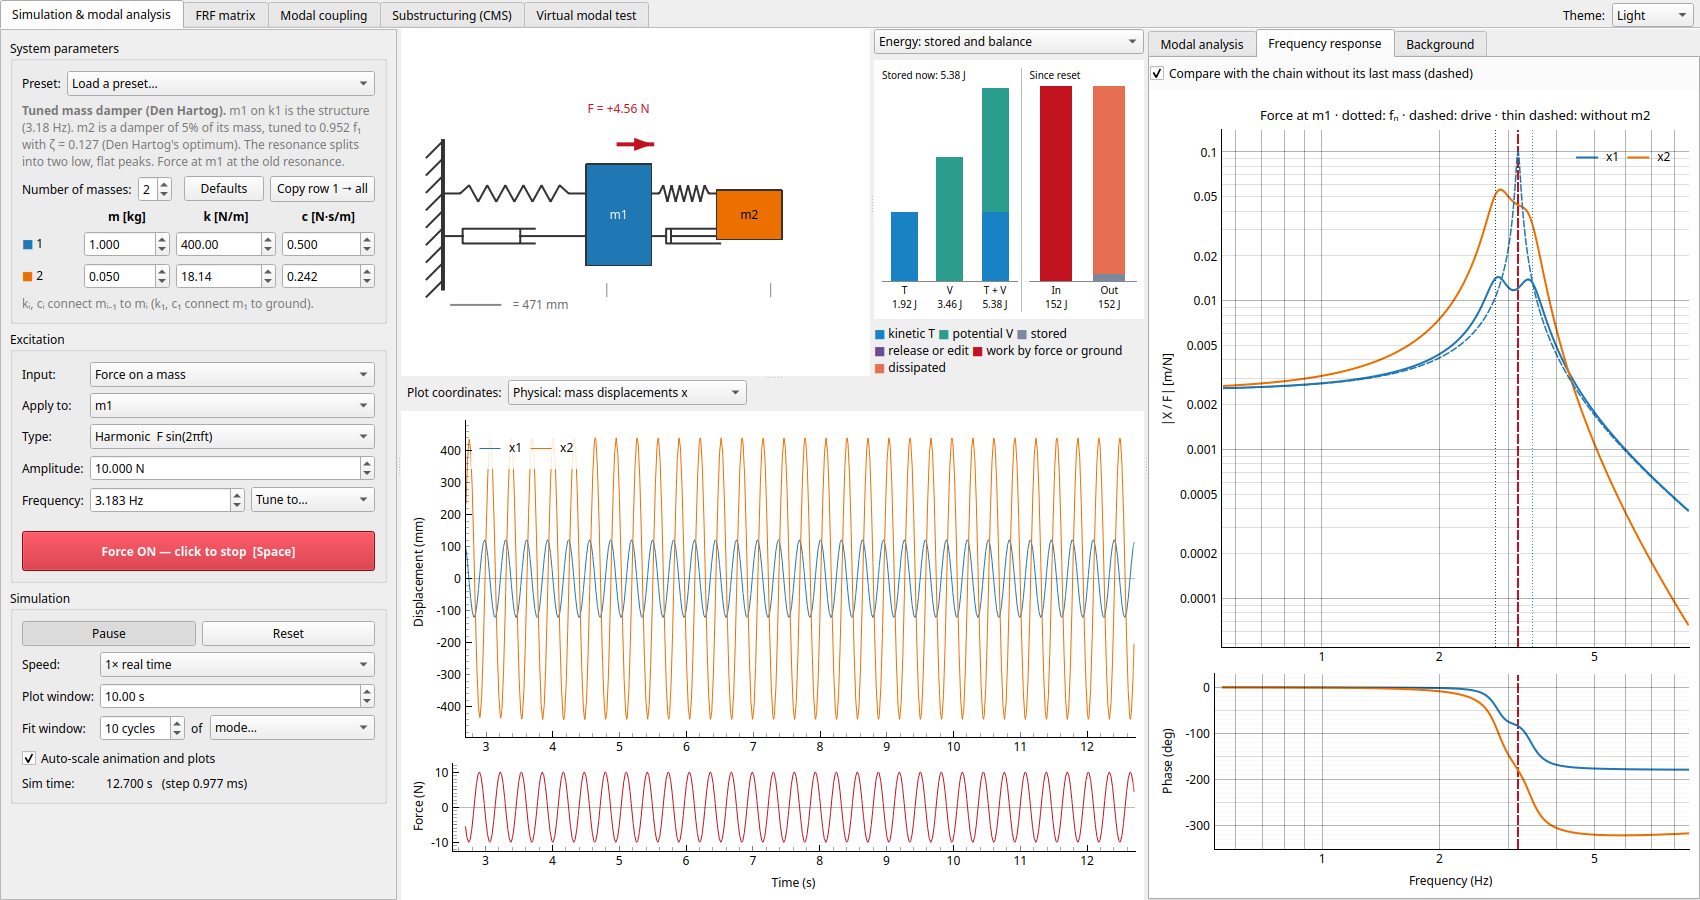
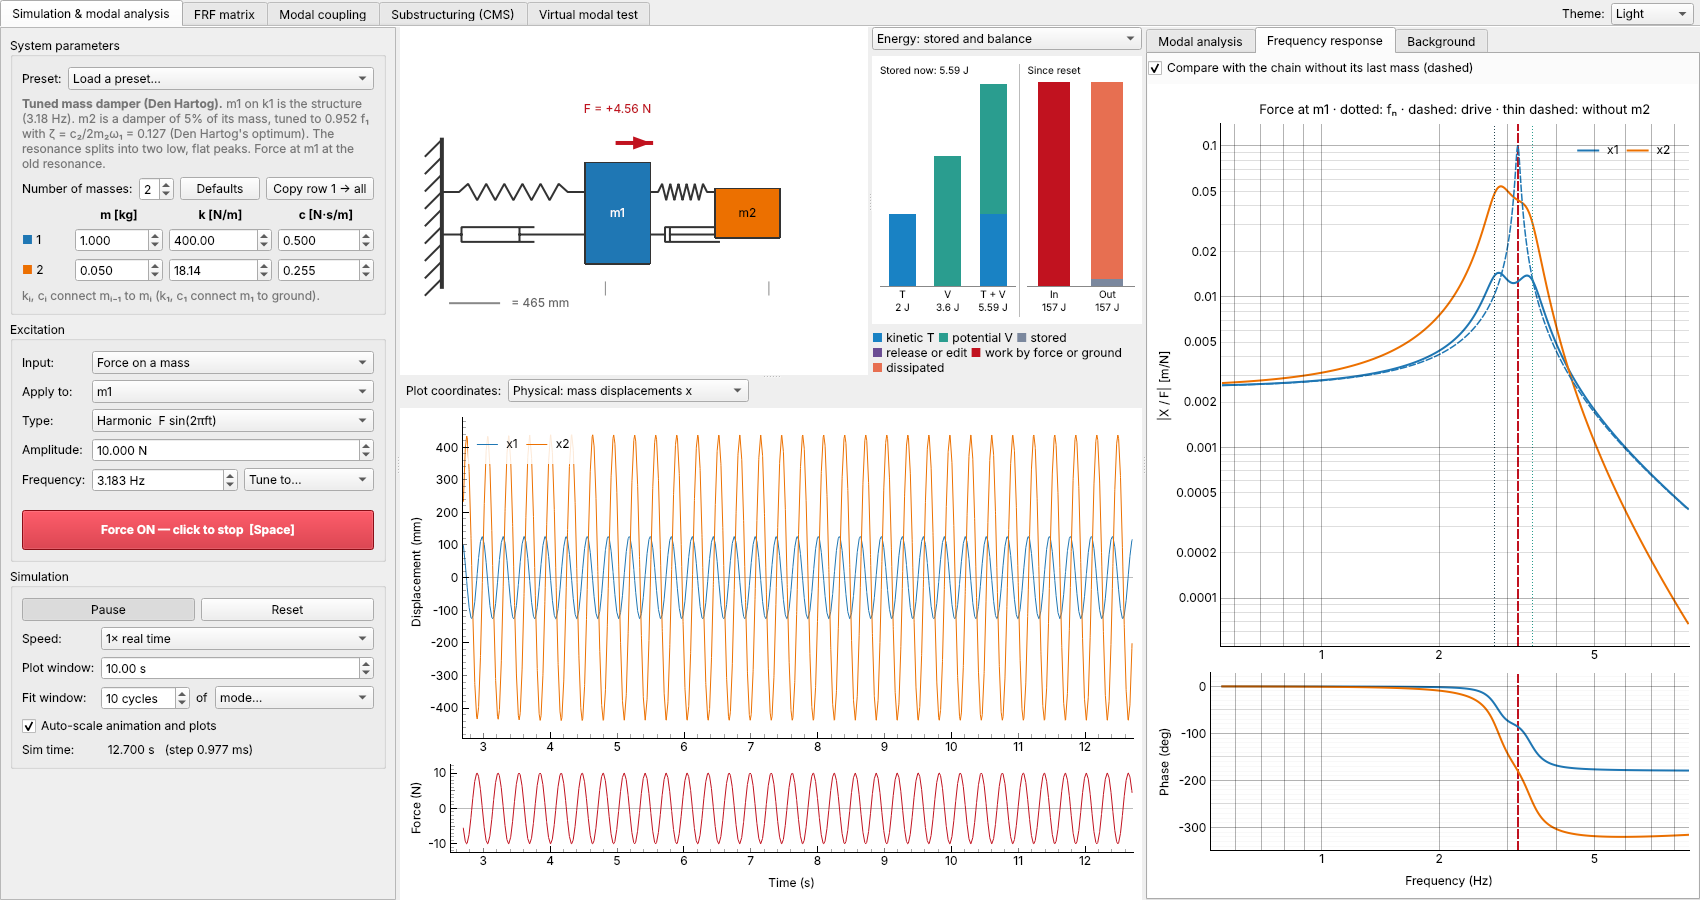
Correct the tutorial text on tuned mass dampers, log sweeps and veering
- Den Hartog's damping ratio is now referenced to the primary's frequency, as in
  his derivation, so the two peaks come out equal (6.407 and 6.408 on an undamped
  primary, was 6.41 and 6.45). The preset summary, README and Background say which
  frequency it is measured against.
- The Background no longer says the 6.4 peak holds whatever the primary's damping;
  the fixed points are exact only for an undamped primary.
- The log-sweep tooltip gave the wrong reason (low modes are not closer together).
- The veering width depends on the mass ratio, not on how close the frequencies are.
- New tests/test_tutorial_numbers.py recomputes the numbers the text quotes.
- Refresh the tuned mass damper screenshot.

Claude-Session: https://claude.ai/code/session_01Xeqp8Uxtmip8sorBwcrTMa

diff --git a/tests/test_tutorial_numbers.py b/tests/test_tutorial_numbers.py
@@ -1,0 +1,128 @@
+"""The numbers quoted in the tutorial text (Background, Theory tabs, Try it lists, README).
+
+Each test recomputes what a page tells the student they will see, so a change to a
+default, a preset or a solver cannot silently make the text wrong. If one fails, fix
+the text (or the change), and quote the new value.
+"""
+
+import numpy as np
+import pytest
+from scipy.signal import find_peaks
+
+from vib_tutorial.core import (
+    ChainSystem,
+    Simulator,
+    compare_coupled,
+    compare_modes,
+    component_mode_synthesis,
+    coupled_model,
+    frf,
+    modal_analysis,
+    modal_energies,
+)
+from vib_tutorial.core.presets import presets
+
+
+def peaks(system: ChainSystem, dof: int, scale: float, lo: float = 0.5, hi: float = 8.0) -> list[float]:
+    f = np.linspace(lo, hi, 100001)
+    h = np.abs(frf(system, f, dof)[:, dof]) * scale
+    return [float(h[i]) for i in find_peaks(h)[0]]
+
+
+def preset(name: str):
+    return next(p for p in presets() if name in p.name)
+
+
+def with_c1(c1: float) -> ChainSystem:
+    s = ChainSystem.uniform(4)
+    s.damping[0] = c1
+    return s
+
+
+@pytest.mark.parametrize(("c1", "coupling", "modal", "exact"), [
+    (5, 0.36, 0.0977, 0.0979),
+    (15, 0.71, 0.168, 0.180),
+    (50, 0.90, 0.45, 0.98),
+])
+def test_background_coupling_table(c1, coupling, modal, exact):
+    r = modal_analysis(with_c1(c1))
+    assert r.coupling == pytest.approx(coupling, abs=0.005)
+    pairs = [(m.zeta_modal, m.damped.zeta) for m in r.modes if m.damped]
+    assert any(z_m == pytest.approx(modal, rel=0.01) and z_e == pytest.approx(exact, rel=0.01) for z_m, z_e in pairs)
+
+
+def test_background_try_it_overdamped_at_c1_200():
+    roots = modal_analysis(with_c1(200)).overdamped_roots
+    assert len(roots) == 2 and roots[0] > -3 and roots[1] < -100  # one slow, one very fast
+
+
+def test_background_try_it_energy_moves_to_mode_1():
+    for c1, mode1_share in ((15, 0.85), (2, None)):
+        s = with_c1(c1)
+        r = modal_analysis(s)
+        sim = Simulator(s)
+        sim.set_state(0.02 * r.modes[2].shape, np.zeros(4))
+        for _ in range(20):
+            sim.advance(0.05)  # 1 s
+        e = modal_energies(s, r, sim.displacement, sim.velocity)
+        if mode1_share is None:
+            assert e[2] / e.sum() == pytest.approx(1.0, abs=1e-6)  # mode 3 keeps it all
+        else:
+            assert e[0] / e.sum() > mode1_share  # "within a second most of what is left is in mode 1"
+
+
+def test_presets_absorber_and_tuned_mass_damper():
+    absorber = preset("absorber (undamped)").system
+    f = modal_analysis(absorber).modes
+    assert (f[1].fn_hz - f[0].fn_hz) / 3.183 == pytest.approx(0.1**0.5, abs=0.01)  # "√0.1 ≈ 32% apart"
+    tmd = preset("Den Hartog").system
+    assert max(peaks(tmd.resized(1), 0, 400.0)) == pytest.approx(40.0, rel=0.01)  # "40 times"
+    assert max(peaks(tmd, 0, 400.0)) < 6.0  # "under 6"
+    undamped = ChainSystem(tmd.masses, tmd.stiffness, [0.0, tmd.damping[1]])
+    assert peaks(undamped, 0, 400.0) == pytest.approx([6.4, 6.4], rel=0.005)  # "about 6.4", equal
+    for c2, count in ((0.0, 2), (5.0, 1)):  # "Set c2 to 0: two sharp peaks. Set it to 5: one"
+        assert len(peaks(ChainSystem(tmd.masses, tmd.stiffness, [tmd.damping[0], c2]), 0, 400.0)) == count
+
+
+def coupling_errors(system, split, mode_a=0, mode_b=0, a_mass="tip"):
+    m = coupled_model(system, split, mode_a, mode_b, a_mass)
+    return m, [(c.error, c.mac) for c in compare_coupled(m, modal_analysis(system))]
+
+
+def test_modal_coupling_try_it():
+    _, errs = coupling_errors(preset("absorber (undamped)").system, 1)
+    assert all(abs(e) < 1e-9 for e, _ in errs)
+    tuned = ChainSystem([1, 1, 0.1, 0.1], [400, 400, 40, 40], [2, 2, 0.2, 0.2])
+    m, errs = coupling_errors(tuned, 2)
+    assert m.mass_ratio == pytest.approx(0.14, abs=0.005)
+    assert [e for e, _ in errs] == pytest.approx([0.002, 0.0033], abs=0.0005)  # "about 0.2%"
+    _, errs = coupling_errors(tuned, 2, a_mass="effective")
+    assert max(abs(e) for e, _ in errs) == pytest.approx(0.03, abs=0.002)  # "about 3%", either sign
+    _, errs = coupling_errors(ChainSystem.uniform(8), 6, mode_a=1)
+    assert errs[0][0] == pytest.approx(-0.14, abs=0.005)  # "14% too low"
+
+
+def cms(interfaces, kept, method="craig-bampton"):
+    s = ChainSystem.uniform(8)
+    return [(c.error, c.mac) for c in compare_modes(component_mode_synthesis(s, interfaces, kept, method),
+                                                   modal_analysis(s)) if c.error is not None]
+
+
+@pytest.mark.parametrize(("interfaces", "kept", "method", "mode", "error", "tol"), [
+    ([], [0], "craig-bampton", 1, 0.073, 0.001),  # Guyan, +7.3%
+    ([], [1], "craig-bampton", 1, 0.0033, 0.0001),
+    ([], [1], "craig-bampton", 2, 0.074, 0.001),
+    ([], [2], "craig-bampton", 3, 0.044, 0.001),
+    ([], [1], "rubin", 2, 0.16, 0.005),
+    ([3], [1, 1], "craig-bampton", 4, 0.07, 0.002),
+    ([3], [0, 0], "craig-bampton", 2, 0.11, 0.005),
+    ([3], [2, 2], "craig-bampton", 6, 0.027, 0.001),
+    ([6], [1, 0], "craig-bampton", 3, 0.50, 0.01),
+    ([2, 5], [1, 1, 1], "craig-bampton", 4, 0.023, 0.001),
+    ([2, 5], [0, 0, 0], "craig-bampton", 3, 0.16, 0.005),
+    ([3], [1, 1], "rubin", 4, 0.10, 0.005),
+    ([3], [1, 1], "macneal", 2, 0.22, 0.005),
+    ([3], [9, 9], "macneal", 6, 0.66, 0.005),
+])
+def test_substructuring_try_it(interfaces, kept, method, mode, error, tol):
+    assert cms(interfaces, kept, method)[mode - 1][0] == pytest.approx(error, abs=tol)

diff --git a/src/vib_tutorial/gui/background.py b/src/vib_tutorial/gui/background.py
@@ -201,15 +201,20 @@ further apart the heavier the absorber (mass ratio μ = m<sub>a</sub>/m<sub>1</s
 works at one frequency: a machine whose speed drifts, or starts up through the peaks,
 needs damping.</p>
 <p><b>Tuned mass damper.</b> Add a damper c<sub>a</sub> and the peaks come down, but too
-much locks the absorber to m<sub>1</sub> and the old resonance comes back. Every curve of
-|X<sub>1</sub>/F|, whatever c<sub>a</sub>, passes through the same two <i>fixed points</i>.
-Den Hartog's optimum tunes the absorber so the fixed points are equally high, then picks
-the damping that puts the peaks on them:</p>
+much locks the absorber to m<sub>1</sub> and the old resonance comes back. If the primary
+itself is undamped, every curve of |X<sub>1</sub>/F|, whatever c<sub>a</sub>, passes through
+the same two <i>fixed points</i>. Den Hartog's optimum tunes the absorber so the fixed points
+are equally high, then picks the damping that puts the peaks on them (strictly, Brock's
+average of the two values that each put one peak on its fixed point):</p>
 <p>&nbsp;&nbsp;f<sub>a</sub>/f<sub>1</sub> = 1/(1 + μ), &nbsp;&nbsp;
 ζ<sub>a</sub> = √(3μ / 8(1 + μ)³), &nbsp;&nbsp; peak |X<sub>1</sub>|k<sub>1</sub>/F =
 √(1 + 2/μ)</p>
-<p>(ζ<sub>a</sub> = c<sub>a</sub> / 2m<sub>a</sub>ω<sub>a</sub>.) With μ = 5% the peak is
-about 6.4 times the static deflection, whatever the primary's own damping was.</p>
+<p>Here ζ<sub>a</sub> = c<sub>a</sub> / 2m<sub>a</sub>ω<sub>1</sub>, measured against the
+<i>primary's</i> frequency ω<sub>1</sub> = √(k<sub>1</sub>/m<sub>1</sub>), as in Den Hartog's
+derivation. (Some textbooks use the absorber's own ω<sub>a</sub> instead; the two differ by
+the factor 1 + μ, so check which one a formula assumes.) With μ = 5% and an undamped primary
+both peaks are about 6.4 times the static deflection. Damping in the primary lowers them
+further, and the fixed points are then only approximate.</p>
 <p><b>On a chain</b>, such as a building, a damper on the roof is tuned to one mode. Near
 that mode the structure behaves like a single mass on a spring whose <i>modal mass</i> at
 the roof is 1/φ<sub>roof</sub>² (φ mass-normalized), so μ and the tuning use that mass
@@ -249,8 +254,9 @@ forces</i>: spring k2 carries the applied force. Change the drive frequency a li
 m1 starts moving again.</li>
 <li>Load <i>Tuned mass damper (Den Hartog)</i>. On the <i>Frequency response</i> tab the
 dashed primary alone peaks at 40 times its static deflection, the damped system at under
-6. Set c2 to 0: two sharp peaks. Set it to 5: the damper locks the absorber to m1 and one
-tall peak comes back. Every curve passes through the same two fixed points.</li>
+6 (its primary is lightly damped, so lower than the 6.4 of an undamped one). Set c2 to 0:
+two sharp peaks. Set it to 5: the damper locks the absorber to m1 and one tall peak comes
+back. Every curve passes close to the same two fixed points.</li>
 </ol>
 """
 

diff --git a/src/vib_tutorial/core/presets.py b/src/vib_tutorial/core/presets.py
@@ -27,6 +27,8 @@ def den_hartog(mu: float) -> tuple[float, float]:
 
     Returns (frequency ratio f_a / f_primary, damping ratio zeta_a), which make the
     two fixed points of the primary's receptance equally high and put the peaks on them.
+    As in Den Hartog's own derivation, zeta_a = c_a / (2 m_a omega_primary): it is
+    referenced to the primary's natural frequency, not the absorber's.
     """
     return 1.0 / (1.0 + mu), math.sqrt(3.0 * mu / (8.0 * (1.0 + mu) ** 3))
 
@@ -55,7 +57,8 @@ def tuned_mass_damper(primary: ChainSystem, mu: float, mode: int = 0) -> ChainSy
     m_eff = modal_mass(primary, mode, primary.n - 1)
     ratio, zeta = den_hartog(mu)
     fn = modal_analysis(primary).modes[mode].fn_hz
-    return with_absorber(primary, mu * m_eff, ratio * fn, zeta)
+    # with_absorber takes the damping ratio on the absorber's own frequency ratio * fn.
+    return with_absorber(primary, mu * m_eff, ratio * fn, zeta / ratio)
 
 
 @dataclass(frozen=True)
@@ -106,7 +109,7 @@ def presets() -> list[Preset]:
         Preset(
             "Tuned mass damper (Den Hartog)",
             f"m1 on k1 is the structure ({f_tmd:.3g} Hz). m2 is a damper of {tmd_mu:.0%} of its "
-            f"mass, tuned to {tmd_ratio:.3f} f₁ with ζ = {tmd_zeta:.3f} (Den Hartog's optimum). "
+            f"mass, tuned to {tmd_ratio:.3f} f₁ with ζ = c₂/2m₂ω₁ = {tmd_zeta:.3f} (Den Hartog's optimum). "
             "The resonance splits into two low, flat peaks. Force at m1 at the old resonance.",
             tmd,
             ForceSettings(target=0, freq_hz=f_tmd),
@@ -116,7 +119,7 @@ def presets() -> list[Preset]:
             "TMD on a 4-storey building",
             f"The default chain as a building on shaking ground, with a damper on the roof (m5): "
             f"{b_mu:.0%} of mode 1's modal mass there ({b_meff:.3g} kg), tuned to "
-            f"{b_ratio:.3f} × {b_fn:.3g} Hz with ζ = {b_zeta:.3f}. The ground shakes at mode 1.",
+            f"{b_ratio:.3f} × {b_fn:.3g} Hz with ζ = {b_zeta:.3f} (relative to {b_fn:.3g} Hz). The ground shakes at mode 1.",
             building_tmd,
             ForceSettings(target=3, freq_hz=b_fn, base=True, base_amplitude=0.005),
             absorber=True,

diff --git a/tests/test_presets.py b/tests/test_presets.py
@@ -33,11 +33,11 @@ def test_den_hartog_equal_peaks_at_the_fixed_points():
     assert s.masses[1] == pytest.approx(0.05)
     f = np.linspace(2.0, 4.5, 20001)
     x1 = np.abs(frf(s, f, 0)[:, 0]) * 400.0  # dynamic amplification
-    # Den Hartog's peak sqrt(1 + 2/mu) (his damping puts the peaks near, not exactly on, the fixed points).
-    assert x1.max() == pytest.approx(math.sqrt(1 + 2 / mu), rel=0.03)
+    # Den Hartog's peak sqrt(1 + 2/mu); with his damping (on the primary's frequency) the peaks are equal.
+    assert x1.max() == pytest.approx(math.sqrt(1 + 2 / mu), rel=0.002)
     fn = 400.0**0.5 / (2 * math.pi)
     lo, hi = x1[f < fn].max(), x1[f > fn].max()
-    assert lo == pytest.approx(hi, rel=0.05)
+    assert lo == pytest.approx(hi, rel=0.002)
 
 
 def test_modal_mass_at_the_tip_of_a_uniform_chain():

diff --git a/src/vib_tutorial/gui/panels.py b/src/vib_tutorial/gui/panels.py
@@ -196,8 +196,10 @@ CHIRP_TIP = (
     "<i>Frequency response</i> tab follows the frequency.</p>"
     "<p>Sweep too fast and a lightly damped mode has no time to build up: its peak comes "
     "late and low, and it rings on after the sweep has moved on.</p>"
-    "<p><b>Log sweep:</b> equal time per octave rather than per hertz, so the low modes, "
-    "which are closer together, get as long as the high ones.</p>"
+    "<p><b>Log sweep:</b> equal time per octave rather than per hertz. A mode's bandwidth "
+    "(2ζf<sub>n</sub>) and its cycles per second both grow with frequency, so a linear sweep "
+    "rushes through the low modes; a log sweep gives each mode a similar number of cycles "
+    "across its peak.</p>"
 )
 
 

diff --git a/src/vib_tutorial/gui/coupling_notes.py b/src/vib_tutorial/gui/coupling_notes.py
@@ -214,8 +214,9 @@ already splits them by 10%.</li>
 </ul>
 <p>In between, the <i>Veering &amp; splitting</i> tab shows the two frequencies as B is made
 stiffer. They approach each other but never cross: they <b>veer</b> apart, and the mode
-shapes swap over through the veering. The closer the frequencies and the heavier B, the
-wider the veering. The chain's own frequencies do the same, and so does every other pair
+shapes swap over through the veering. The heavier B (the larger μ), the wider the
+veering: the two curves stay apart over a band of f<sub>B</sub>/f<sub>A</sub> roughly √μ
+wide. The chain's own frequencies do the same, and so does every other pair
 of modes of A and B.</p>
 
 <h3>Damping</h3>

diff --git a/README.md b/README.md
@@ -131,7 +131,7 @@ chain without its last mass*).
   spring pushes back with exactly the applied force. The one resonance becomes two, one
   either side.
 - **Tuned mass damper (Den Hartog)**: a 5% damper tuned to f<sub>a</sub>/f<sub>1</sub> =
-  1/(1 + μ) with ζ<sub>a</sub> = √(3μ/8(1 + μ)³). The resonance at 40 times the static
+  1/(1 + μ) with ζ<sub>a</sub> = √(3μ/8(1 + μ)³) (relative to f<sub>1</sub>, as Den Hartog defined it). The resonance at 40 times the static
   deflection becomes two flat peaks under 6. Set c2 to 0 or to 5 to see why the damping
   has an optimum.
 - **TMD on a 4-storey building**: the default chain shaken by the ground at its first
@@ -611,7 +611,7 @@ transmissibility(chain, np.array([0.5, 2.0]))                  # X / X_g, (freqs
 from vib_tutorial.core.presets import den_hartog, tuned_mass_damper, with_absorber
 
 tmd = tuned_mass_damper(ChainSystem.uniform(4), mu=0.05)       # 5-mass chain, damper on m4 tuned to mode 1
-den_hartog(0.05)                                               # (f_a / f_1, zeta_a) = (0.952, 0.127)
+den_hartog(0.05)                                               # (f_a / f_1, zeta_a on f_1) = (0.952, 0.127)
 
 from vib_tutorial.core import compare_modes, craig_bampton
 
